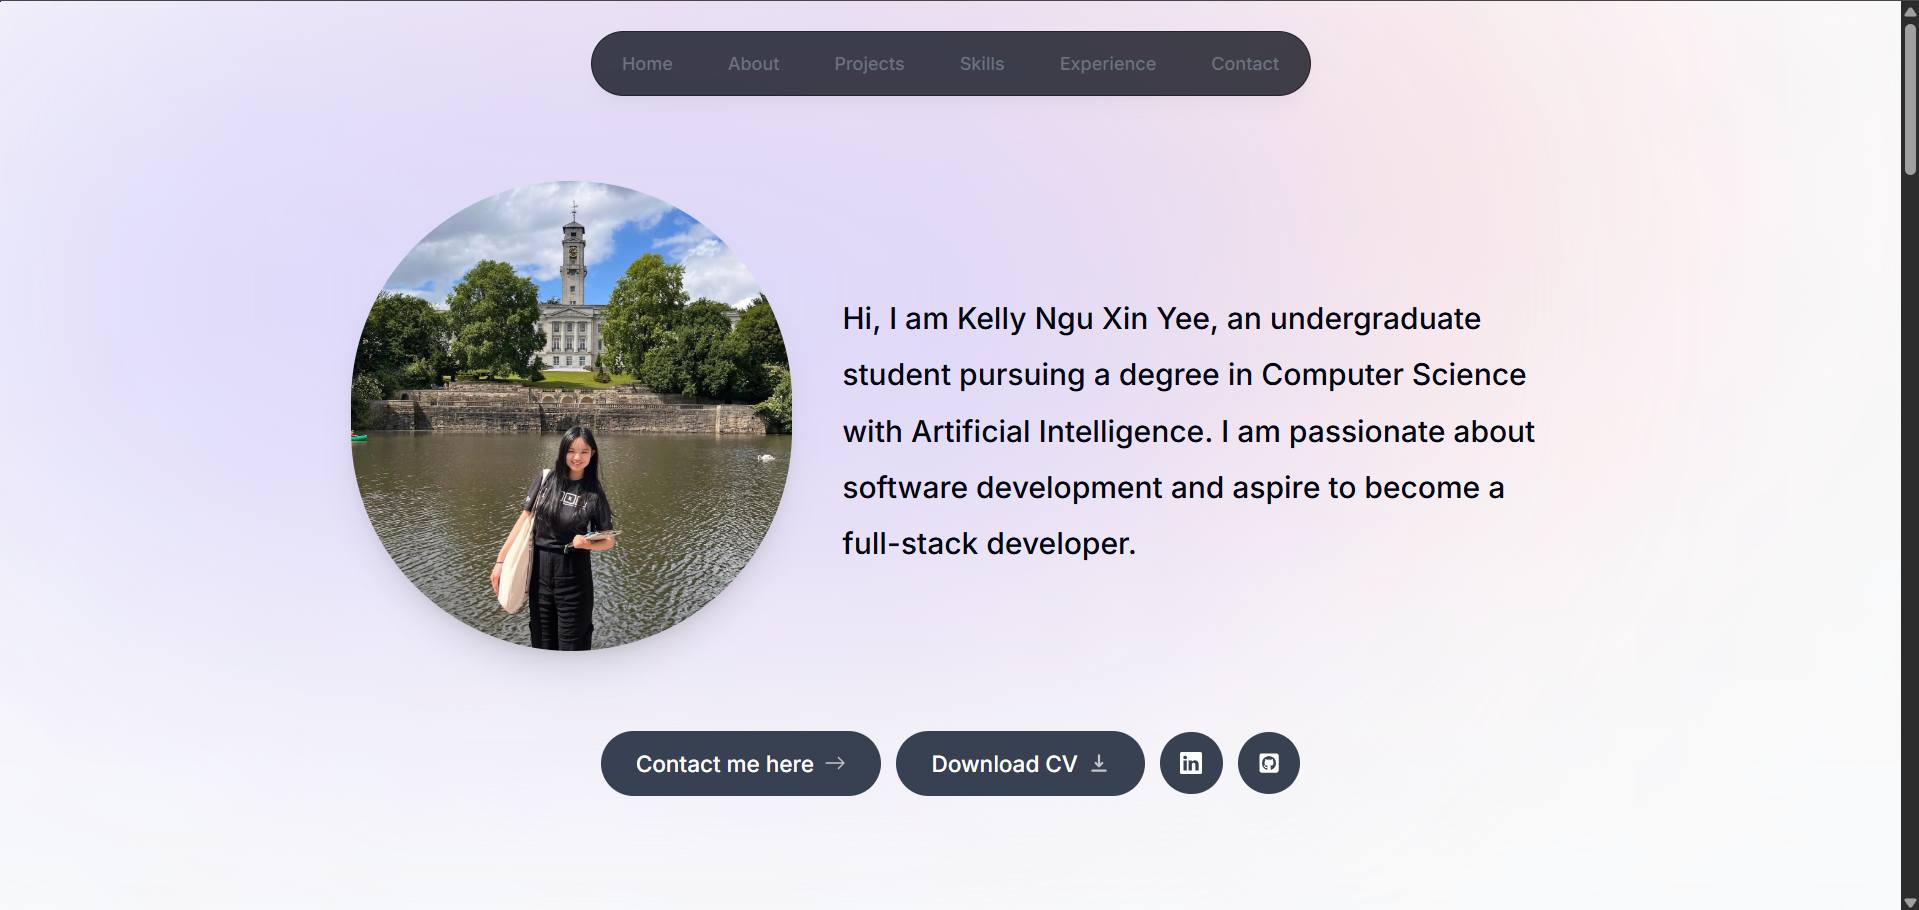
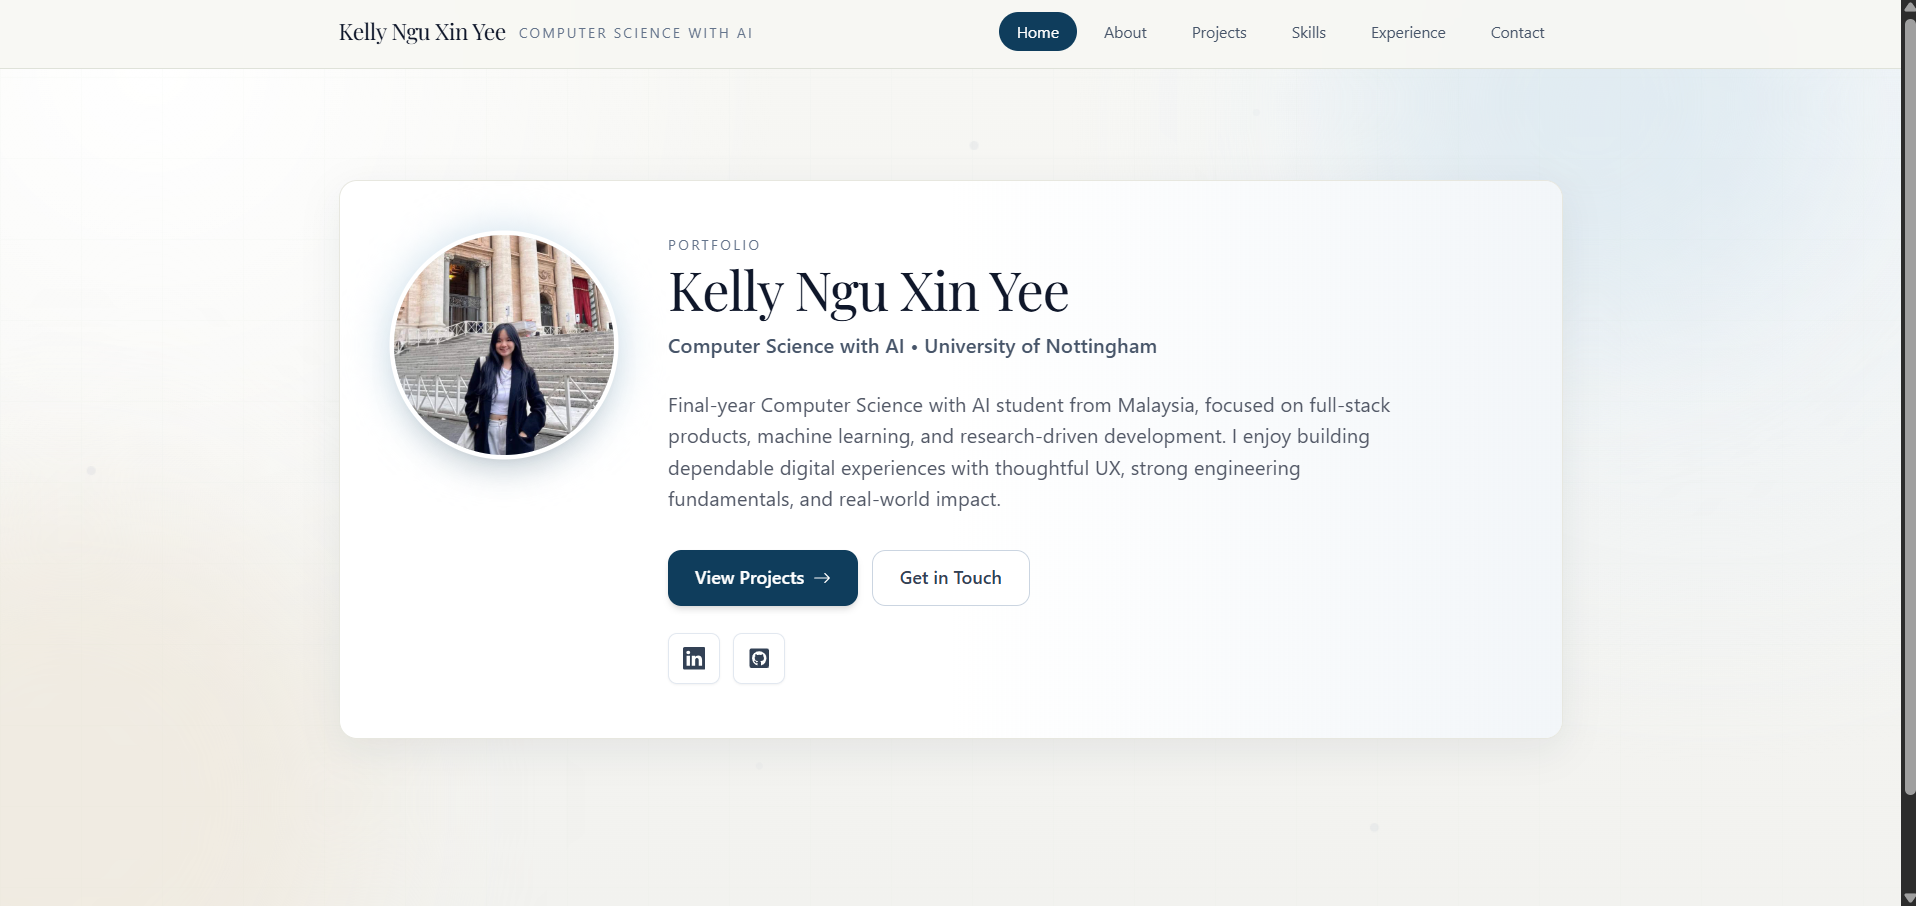
Add new project

diff --git a/components/about.tsx b/components/about.tsx
@@ -6,7 +6,12 @@ import { motion } from "framer-motion";
 import { useSectionInView } from "@/lib/hooks";
 import { educationData } from "@/lib/data";
 import Image from "next/image";
-import { FaMapMarkerAlt, FaEnvelope, FaPhone, FaBriefcase } from "react-icons/fa";
+import {
+  FaMapMarkerAlt,
+  FaEnvelope,
+  FaPhone,
+  FaBriefcase,
+} from "react-icons/fa";
 
 export default function About() {
   const { ref } = useSectionInView("About");
@@ -37,16 +42,16 @@ export default function About() {
           >
             <div className="relative">
               <div className="absolute -inset-2 rounded-full bg-[#d6e5ef] blur" />
-              <Image 
-                src="/kelly.jpeg" 
-                alt="Kelly" 
-                width={160} 
-                height={160} 
-                className="relative rounded-full object-cover ring-4 ring-white shadow-lg" 
+              <Image
+                src="/kelly.jpeg"
+                alt="Kelly"
+                width={160}
+                height={160}
+                className="relative rounded-full object-cover ring-4 ring-white shadow-lg"
               />
             </div>
           </motion.div>
-          
+
           <div className="flex-1">
             <motion.h3
               initial={{ opacity: 0, x: -20 }}
@@ -64,9 +69,14 @@ export default function About() {
               transition={{ delay: 0.1 }}
               className="muted-text mb-6 text-lg leading-relaxed"
             >
-              I am a Computer Science with AI student at the University of Nottingham with strong interests in
-              product engineering, machine learning, and human-centered design. I value well-structured systems,
-              clean implementation, and collaboration that turns ideas into practical solutions.
+              I am a final-year computer science student passionate about
+              building software that makes a tangible, positive impact on
+              society. I have strong interests in web and mobile development,
+              machine learning, and AI. I spend my free time exploring new
+              technologies to see how emerging tech can solve real-world
+              problems. I am always eager to tackle complex technical
+              challenges, and I am happy to connect with industry professionals
+              to find a team where I can contribute, learn, and grow.
             </motion.p>
 
             <div className="grid grid-cols-1 sm:grid-cols-2 gap-3 sm:gap-4">
@@ -79,8 +89,12 @@ export default function About() {
               >
                 <FaMapMarkerAlt className="text-xl text-[#0f3d5c]" />
                 <div>
-                  <div className="text-xs font-medium text-slate-500">Location</div>
-                  <div className="text-sm font-semibold text-slate-800">Malaysia</div>
+                  <div className="text-xs font-medium text-slate-500">
+                    Location
+                  </div>
+                  <div className="text-sm font-semibold text-slate-800">
+                    Malaysia
+                  </div>
                 </div>
               </motion.div>
 
@@ -93,8 +107,12 @@ export default function About() {
               >
                 <FaEnvelope className="text-xl text-[#0f3d5c]" />
                 <div>
-                  <div className="text-xs font-medium text-slate-500">Email</div>
-                  <div className="text-sm font-semibold text-slate-800">kellynxy8838@gmail.com</div>
+                  <div className="text-xs font-medium text-slate-500">
+                    Email
+                  </div>
+                  <div className="text-sm font-semibold text-slate-800">
+                    kellynxy8838@gmail.com
+                  </div>
                 </div>
               </motion.div>
 
@@ -110,8 +128,12 @@ export default function About() {
                 >
                   <FaPhone className="text-xl text-[#0f3d5c] transition-transform group-hover:scale-110" />
                   <div>
-                    <div className="text-xs font-medium text-slate-500">Phone</div>
-                    <div className="text-sm font-semibold text-slate-800">+60 16 522 8838</div>
+                    <div className="text-xs font-medium text-slate-500">
+                      Phone
+                    </div>
+                    <div className="text-sm font-semibold text-slate-800">
+                      +60 16 522 8838
+                    </div>
                   </div>
                 </a>
               </motion.div>
@@ -125,8 +147,12 @@ export default function About() {
               >
                 <FaBriefcase className="text-xl text-[#0f3d5c]" />
                 <div>
-                  <div className="text-xs font-medium text-slate-500">Open To</div>
-                  <div className="text-sm font-semibold text-slate-800">Full-time Roles</div>
+                  <div className="text-xs font-medium text-slate-500">
+                    Open To
+                  </div>
+                  <div className="text-sm font-semibold text-slate-800">
+                    Full-time Roles
+                  </div>
                 </div>
               </motion.div>
             </div>
@@ -143,13 +169,22 @@ export default function About() {
             whileInView={{ opacity: 1, y: 0 }}
             viewport={{ once: true }}
             transition={{ delay: idx * 0.1 }}
-            whileHover={{ y: -4, boxShadow: "0 16px 30px -14px rgba(15, 24, 40, 0.28)" }}
+            whileHover={{
+              y: -4,
+              boxShadow: "0 16px 30px -14px rgba(15, 24, 40, 0.28)",
+            }}
             className="panel relative p-6"
           >
-            <div className="mb-2 text-sm font-semibold text-[#0f3d5c]">{edu.period}</div>
-            <h4 className="mb-1 text-xl font-bold text-slate-900">{edu.institution}</h4>
+            <div className="mb-2 text-sm font-semibold text-[#0f3d5c]">
+              {edu.period}
+            </div>
+            <h4 className="mb-1 text-xl font-bold text-slate-900">
+              {edu.institution}
+            </h4>
             <div className="mb-3 font-medium text-slate-700">{edu.degree}</div>
-            <p className="whitespace-pre-line text-sm leading-relaxed text-slate-600">{edu.notes}</p>
+            <p className="whitespace-pre-line text-sm leading-relaxed text-slate-600">
+              {edu.notes}
+            </p>
           </motion.div>
         ))}
       </div>

diff --git a/lib/data.ts b/lib/data.ts
@@ -4,7 +4,6 @@ import { FaReact } from "react-icons/fa";
 import { LuGraduationCap } from "react-icons/lu";
 import bakemyday from "@/public/bakemyday.png";
 import portfolio from "@/public/portfolio.png";
-import portfolio2 from "@/public/portfolio2.png";
 import librarysys from "@/public/librarysys.png";
 import cellularAutomata from "@/public/cellularAutomata.png";
 import mentorApp from "@/public/mentorApp.png";
@@ -15,6 +14,7 @@ import hangman from "@/public/hangman.png";
 import skyRushBird from "@/public/skyRushBird.png";
 import moniefest from "@/public/moniefest.png";
 import fyp from "@/public/fyp.png";
+import aliceInWonderland from "@/public/aliceInWonderland.png";
 
 export const links = [
   // navigation links for the header (use app routes)
@@ -53,7 +53,8 @@ export const experiencesData = [
     icon: React.createElement(CgWorkAlt),
   },
   {
-    title: "Best Frontend Designer — Game Theory Challenge Hackathon (Tesserac AI)",
+    title:
+      "Best Frontend Designer — Game Theory Challenge Hackathon (Tesserac AI)",
     location: "Kuala Lumpur, Malaysia — Oct 2025",
     description:
       "Developed a responsive, user-centric 'Alice in Wonderland' web platform with quiz-based chapter progression, transforming classic literature into an engaging learning experience for new readers. Awarded Best Frontend Designer, selected as the top frontend project among participating universities in Malaysia for creativity, usability, and technical execution, winning RM1,500.",
@@ -167,7 +168,14 @@ export const projectsData = [
     title: "Monie Fest 2026 Website",
     description:
       "Developed a responsive event website for Monie Fest, a large-scale financial lifestyle festival focused on money, investing, and banking, attracting 25,000–30,000 attendees. Built as an individual contractor for Foodie Media and Spire Digital using React, TypeScript, and Vite with Tailwind CSS for styling. The site features event information, speaker profiles, exhibitor listings, programme schedule, event statistics, and integrated Eventbrite ticketing. Fully optimized for mobile and desktop viewing with accessible UI components.",
-    tags: ["React", "TypeScript", "Vite", "Tailwind CSS", "Responsive Design", "Eventbrite"],
+    tags: [
+      "React",
+      "TypeScript",
+      "Vite",
+      "Tailwind CSS",
+      "Responsive Design",
+      "Eventbrite",
+    ],
     imageUrl: moniefest,
     link: "https://www.monie.my/",
   },
@@ -183,7 +191,26 @@ export const projectsData = [
     description:
       "Designed and developed a responsive personal portfolio using React, TypeScript, Next.js, and Tailwind CSS. This dynamic portfolio showcases my projects, skills, and experiences with a modern, interactive interface. The site features a user-friendly navigation system, smooth animations powered by Framer Motion, and a customizable design that highlights my technical expertise. The project demonstrates my proficiency in creating engaging and performance-oriented web applications.",
     tags: ["React", "TypeScript", "Next.js", "Tailwind CSS", "Framer Motion"],
-    imageUrl: portfolio2,
+    imageUrl: portfolio,
+    link: "https://kellynguxinyee-portfolio.vercel.app/",
+  },
+  {
+    title: "Alice in Wonderland — Interactive Story Experience",
+    description:
+      "An interactive, narrated web adaptation of Lewis Carroll’s Alice that blends readable chapters, voice narration, and lightweight mini‑games to create an engaging, accessible storybook experience. Built as a single‑page React app with TypeScript and Vite, styled with Tailwind CSS, the project focuses on responsive design, progressive enhancement (works offline via built assets), optimized media delivery, and accessible UI components for all ages.",
+    tags: [
+      "React",
+      "TypeScript",
+      "Vite",
+      "Tailwind CSS",
+      "Web Audio",
+      "Accessibility",
+      "Responsive Design",
+      "Mini‑Games",
+      "GitHub Pages",
+    ],
+    imageUrl: aliceInWonderland,
+    link: "https://kellyyngu.github.io/alice-in-wonderland/",
   },
   {
     title: "Spectacular Cellular Automata",
@@ -288,21 +315,65 @@ export const categorizedSkills = {
   softSkills: {
     title: "Soft Skills",
     icon: "💡",
-    skills: ["Communication", "Teamwork", "Problem-Solving", "Leadership", "Time Management", "Adaptability"],
+    skills: [
+      "Communication",
+      "Teamwork",
+      "Problem-Solving",
+      "Leadership",
+      "Time Management",
+      "Adaptability",
+    ],
   },
   programmingLanguages: {
     title: "Programming Languages",
     icon: "💻",
-    skills: ["Java", "C", "HTML", "CSS", "JavaScript", "PHP", "SQL", "Haskell", "Python", "TypeScript"],
+    skills: [
+      "Java",
+      "C",
+      "HTML",
+      "CSS",
+      "JavaScript",
+      "PHP",
+      "SQL",
+      "Haskell",
+      "Python",
+      "TypeScript",
+    ],
   },
   frameworks: {
     title: "Frameworks & Libraries",
     icon: "⚙",
-    skills: ["React", "Next.js", "Vite", "Tailwind CSS", "Framer Motion", "scikit-learn", "TensorFlow", "Keras", "PyTorch", "Pandas", "NumPy", "Matplotlib", "Seaborn", "YOLO", "OpenCV"],
+    skills: [
+      "React",
+      "Next.js",
+      "Vite",
+      "Tailwind CSS",
+      "Framer Motion",
+      "scikit-learn",
+      "TensorFlow",
+      "Keras",
+      "PyTorch",
+      "Pandas",
+      "NumPy",
+      "Matplotlib",
+      "Seaborn",
+      "YOLO",
+      "OpenCV",
+    ],
   },
   tools: {
     title: "Software & Tools",
     icon: "🛠",
-    skills: ["Visual Studio Code", "GitHub Desktop", "Figma", "PHPMyAdmin", "XAMPP", "Microsoft Office", "Canva", "Google Workspace", "Jira"],
+    skills: [
+      "Visual Studio Code",
+      "GitHub Desktop",
+      "Figma",
+      "PHPMyAdmin",
+      "XAMPP",
+      "Microsoft Office",
+      "Canva",
+      "Google Workspace",
+      "Jira",
+    ],
   },
 } as const;

diff --git a/components/intro.tsx b/components/intro.tsx
@@ -39,7 +39,9 @@ export default function Intro() {
                 animate={{ opacity: 1, y: 0 }}
                 transition={{ delay: 0.15 }}
               >
-                <p className="text-xs uppercase tracking-[0.2em] text-slate-500">Portfolio</p>
+                <p className="text-xs uppercase tracking-[0.2em] text-slate-500">
+                  Portfolio
+                </p>
                 <h1 className="display-heading mt-2 text-4xl leading-tight text-slate-900 sm:text-5xl">
                   Kelly Ngu Xin Yee
                 </h1>
@@ -54,9 +56,15 @@ export default function Intro() {
                 transition={{ delay: 0.25 }}
                 className="muted-text mt-6 max-w-2xl text-base leading-relaxed sm:text-lg"
               >
-                Final-year Computer Science with AI student from Malaysia, focused on full-stack products,
-                machine learning, and research-driven development. I enjoy building dependable digital
-                experiences with thoughtful UX, strong engineering fundamentals, and real-world impact.
+                I am a final-year computer science student passionate about
+                building software that makes a tangible, positive impact on
+                society. I have strong interests in web and mobile development,
+                machine learning, and AI. I spend my free time exploring new
+                technologies to see how emerging tech can solve real-world
+                problems. I am always eager to tackle complex technical
+                challenges, and I am happy to connect with industry
+                professionals to find a team where I can contribute, learn, and
+                grow.
               </motion.p>
 
               <motion.div
